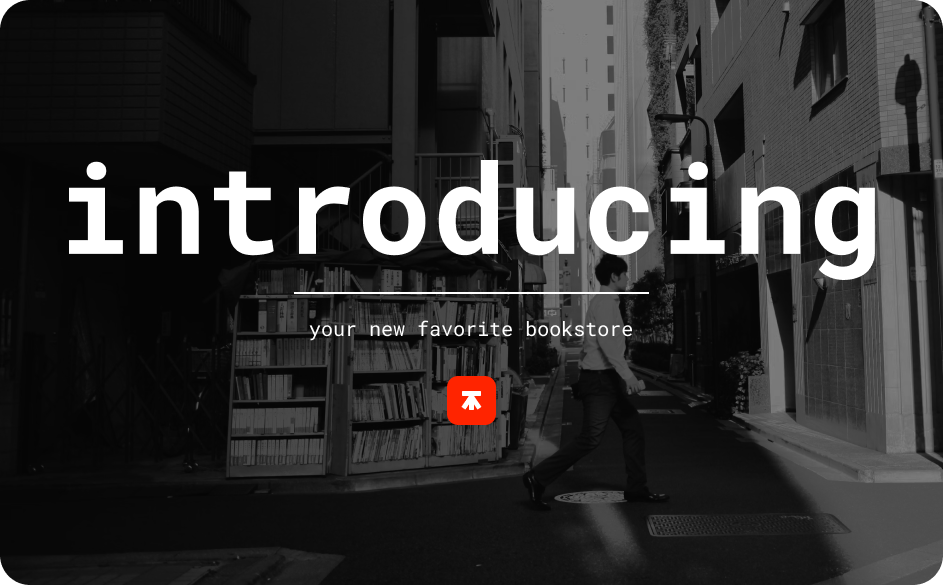
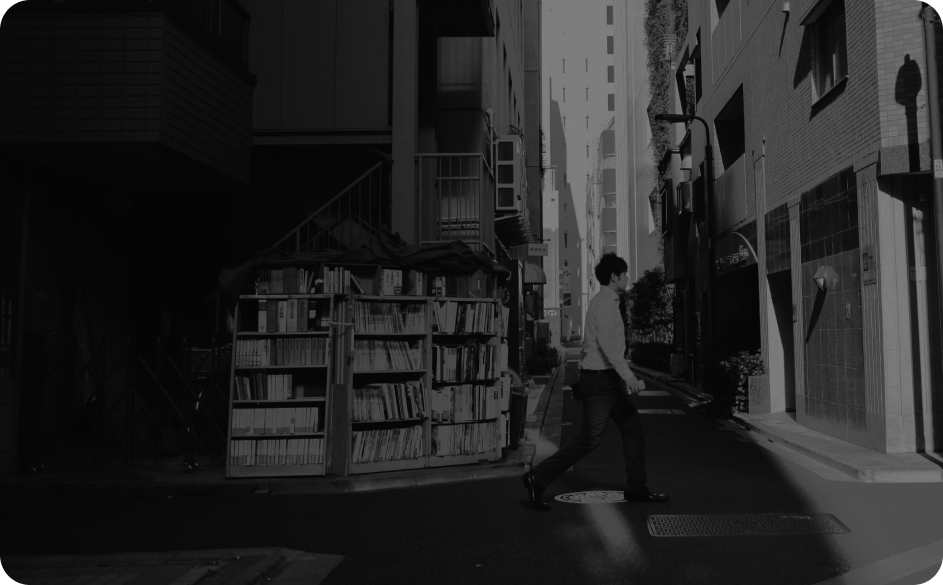
update?

diff --git a/src/pages/about/TimeMachinePrintWeb.js b/src/pages/about/TimeMachinePrintWeb.js
@@ -2,76 +2,70 @@ import React from 'react';
 import './TimeMachine.css';
 import tmintroImage from '../../assets/tmintro.png';
 import tmlogofull from '../../assets/tmlogofull.png';
-
 const TimeMachine = ({ onBack }) => {
-  return (
-    <div className="project-container">
-      <button 
-        className="back-button"
-        onClick={onBack}
-      >
-        Back
-      </button>
-      
-      <div className="header">
-        <div className="logo"
-
+    return (
+      <div className="project-container">
+        <button 
+          className="back-button"
+          onClick={onBack}
         >
-             <img 
-  src={tmlogofull}
-  alt="Introducing Time Machine" 
-  className="full-width-image"
-/>
+          Back
+        </button>
+        
+        <div className="header">
+          <img 
+            src={tmlogofull}
+            alt="Time Machine Logo" 
+            className="logo-image"
+          />
         </div>
-        <h1 className="title"></h1>
+        
+        <hr className="divider" />
+        
+        <div className="metadata-row">
+          <div className="metadata-item">
+            <div className="metadata-label">Role</div>
+            <div className="metadata-value">Product Owner & Designer</div>
+          </div>
+          <div className="metadata-item">
+            <div className="metadata-label">Website</div>
+            <div className="metadata-value">timemachineprint.com</div>
+          </div>
+          <div className="metadata-item">
+            <div className="metadata-label">Social</div>
+            <div className="metadata-value">@timemachineprint</div>
+          </div>
+          <div className="metadata-item">
+            <div className="metadata-label">Year</div>
+            <div className="metadata-value">2024</div>
+          </div>
+        </div>
+        
+        <div className="about-section">
+          <h2 className="section-label"></h2>
+          <p className="about-text">"An online bookstore, resource, and community for creatives, builders, and those imagining the future."</p>
+        </div>
+        
+        <div className="image-container">
+          <img 
+            src={tmintroImage}
+            alt="Introducing Time Machine" 
+            className="full-width-image"
+          />
+          <div className="image-overlay">
+            <h2 className="overlay-title">introducing</h2>
+            <p className="overlay-subtitle">your new favorite bookstore</p>
+          </div>
+        </div>
+        
+        <div className="overview-section">
+          <h2 className="section-title">Overview</h2>
+          <p className="overview-text">An online bookstore was born from a challenge faced by creative professionals and enthusiasts: finding the right books to fuel their imagination and skills.</p>
+          <p className="overview-text">When creatives seek inspiration or knowledge, where do they turn? Amazon, local bookstores, niche websites, or recommendations from peers? What if there was a single platform that could offer not just books, but a curated experience tailored to each creative's unique journey?</p>
+          <p className="overview-text">Time Machine curates, personalizes, and enhances the book discovery experience while connecting users to a vibrant community of fellow creatives.</p>
+        </div>
       </div>
-      
-      <hr className="divider" />
-      
-      <div className="metadata-row">
-        <div className="metadata-item">
-          <span className="metadata-label">Role</span>
-          <span className="metadata-value">Product Owner & Designer</span>
-        </div>
-        <div className="metadata-item">
-          <span className="metadata-label">Website</span>
-          <span className="metadata-value">timemachineprint.com</span>
-        </div>
-        <div className="metadata-item">
-          <span className="metadata-label">Social</span>
-          <span className="metadata-value">@timemachineprint</span>
-        </div>
-        <div className="metadata-item">
-          <span className="metadata-label">Year</span>
-          <span className="metadata-value">2024</span>
-        </div>
-      </div>
-      
-      <div className="about-section">
-        <h2 className="section-label">About</h2>
-        <p className="about-text">An online bookstore, resource, and community for creatives, builders, and those imagining the future.</p>
-      </div>
-      
-      <div className="image-container">
-      <img 
-  src={tmintroImage}
-  alt="Introducing Time Machine" 
-  className="full-width-image"
-/>
-        <div className="image-overlay">
-          <h2 className="overlay-title">introducing</h2>
-          <p className="overlay-subtitle">your new favorite bookstore</p>
-        </div>
-      </div>
-      
-      <div className="overview-section">
-        <h2 className="section-title">Overview</h2>
-        <p className="overview-text">An online bookstore was born from a challenge faced by creative professionals and enthusiasts: finding the right books to fuel their imagination and skills.</p>
-        <p className="overview-text">When creatives seek inspiration or knowledge, where do they turn? Amazon, local bookstores, niche websites, or recommendations from peers? What if there was a single platform that could offer not just books, but a curated experience tailored to each creative's unique journey?</p>
-        <p className="overview-text">Time Machine curates, personalizes, and enhances the book discovery experience while connecting users to a vibrant community of fellow creatives.</p>
-      </div>
-    </div>
-  );
-};
-
-export default TimeMachine;
+    );
+  };
+  
+  export default TimeMachine;

diff --git a/src/pages/about/TimeMachine.css b/src/pages/about/TimeMachine.css
@@ -2,6 +2,7 @@
 
 body {
   font-family: 'Roboto Mono', monospace;
+  background-color: #ffffff;
 }
 
 .project-container {
@@ -24,44 +25,41 @@ body {
 
 .header {
   display: flex;
-  align-items: center;
+  justify-content: flex-start;
   margin-bottom: 20px;
+
 }
 
-
-
-.title {
-  font-size: 24px;
-  font-weight: 700;
+.logo-image {
+  max-width: 200px;
+  height: auto;
 }
 
 .divider {
   border: none;
-  border-top: 1px solid #e0e0e0;
+  border-top: 1px dashed #000000;
   margin: 20px 0;
 }
 
 .metadata-row {
   display: flex;
   justify-content: space-between;
-  flex-wrap: wrap;
   margin-bottom: 20px;
+  font-size: 14px;
 }
 
 .metadata-item {
   display: flex;
-  align-items: center;
-  margin-right: 20px;
+  flex-direction: column;
 }
 
 .metadata-label {
   font-weight: 700;
-  color: #666;
-  margin-right: 5px;
+  color: #000000;
 }
 
 .metadata-value {
-  color: #333;
+  color: #B7B7B7;
 }
 
 .about-section {
@@ -69,9 +67,9 @@ body {
 }
 
 .section-label {
-  font-size: 18px;
+  font-size: 16px;
   font-weight: 700;
-  color: #666;
+  color: #000000;
   margin-bottom: 10px;
 }
 
@@ -109,6 +107,7 @@ body {
   font-size: 36px;
   font-weight: 700;
   margin-bottom: 10px;
+  text-transform: lowercase;
 }
 
 .overlay-subtitle {
@@ -120,24 +119,26 @@ body {
 }
 
 .section-title {
-  font-size: 20px;
+  font-size: 16px;
   font-weight: 700;
   margin-bottom: 10px;
+  color: #000000;
 }
 
 .overview-text {
-  color: #333;
+  color: #B7B7B7;
+  font-size: 14px;
   line-height: 1.6;
   margin-bottom: 10px;
 }
 
 @media (max-width: 768px) {
   .metadata-row {
-    flex-direction: column;
+    flex-wrap: wrap;
   }
 
   .metadata-item {
-    margin-right: 0;
+    width: 50%;
     margin-bottom: 10px;
   }
 

diff --git a/src/pages/about/Designs.js b/src/pages/about/Designs.js
@@ -67,7 +67,7 @@ const Designs = () => {
       </div>
       {selectedDesign && (
         <div className="design-details">
-          {selectedDesign.title === "Sunny Weather Mobile App" ? (
+          {selectedDesign.title === "Sunny Weather" ? (
             <SunnyWeatherApp onBack={handleBackClick} />
           ) : selectedDesign.title === "Time Machine Print" ? (
             <TimeMachine onBack={handleBackClick} />
